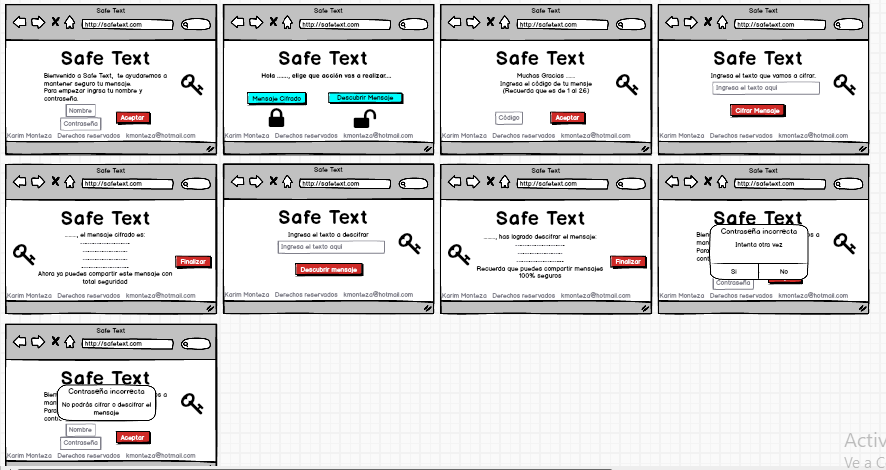
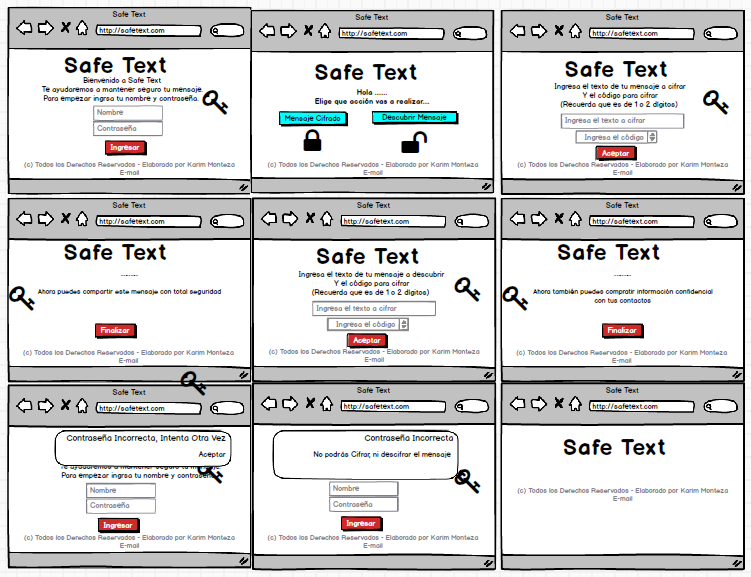
cifrado-y-descifrado

diff --git a/src/index.html b/src/index.html
@@ -1,10 +1,10 @@
 <!DOCTYPE html>
 <html>
   <head>
-    <meta charset="utf-8">
+    <meta charset='utf-8'>
     <title>Safe Text</title>
-    <meta name="viewport" content="width=device-width,user-scalable=no,initial-scale=1.0, maximum-scale=1.0">
-    <link rel="stylesheet" href="style.css" />
+    <meta name='viewport' content='width=device-width,user-scalable=no,initial-scale=1.0, maximum-scale=1.0'>
+    <link rel='stylesheet' href='style.css'/>
   </head>
   <body>
     <center>
@@ -14,61 +14,80 @@
     </header>
     <main>
       <!-- Párrafo, nombre y constraseña-->
-
-      <section class="nombre-contraseña" id="nombre-Contraseña"><center>
-        <p><strong>Bienvenido a Safe Text<strong>
-        <br>Te ayudaremos a mantener seguro tu mensaje <br>
-        <br>Para empezar ingresa tu nombre y contraseña.</strong> </p>
+      <section class='nombre-contraseña' id='nombre-contraseña'>
+        <p><strong>Bienvenido a Safe Text
+        <br>
+        Te ayudaremos a mantener seguro tu mensaje
+        <br>
+        <br>
+        Para empezar ingresa tu nombre y contraseña.</strong> </p>
         <!-- Ingresar nombre y contraseña -->
-        <input type="text" id="nombre" placeholder="Nombre" required> <br> <br>
-        <input type="password" id="contraseña" placeholder="Contraseña"> <br><br>
-        <button type="button" id="ingresar">Ingresar</button>
+        <input type='text' id='nombre' placeholder='Nombre' required> <br> <br>
+        <input type='password' id='contraseña' placeholder='Contraseña'required> <br><br>
+        <button type='button' id='ingresar'>Ingresar</button>
       </section>
       <!-- si es correcto cifrar o descifrar mensaje -->
-      <section class="cifrar-descifrar" id="cifrar-descifrar" style="display: none;">
-        <center>
-        <h2 id="usuario">Hola</h2> <br>
+      <section class='cifrar-descifrar' id='cifrar-descifrar' >
+        <h2 id='usuario'>Hola</h2>
         <p>Elije que acción vas a realizar</p>
-        <button type="button" id="cifrar">Cifrar Mensaje</button>
-        <button type="button" id="descifrar">Descubrir Mensaje</button>
+        <button type='button' id='cifrar'>Cifrar Mensaje</button>
+        <button type='button' id='descifrar'>Descubrir Mensaje</button>
       </section>
-      <!-- Si eleige cifrar -->
-      <section class="offsetcifrar" id="offsetcifrar" style="display: none;">
-        <center>
-        <p>Ingresa el texto de tu mensaje a cifrar <br><br> Y el código para cifrar <br>(Recuerda que es de 1 o 2 dígitos) <br>  </p>
-        <input type="text" id="textcif" placeholder="Ingresa el texto a cifrar">
-        <br><br><br>
-        <input type="number" id="offsetci" requerid>
-        <button type="button" id="aceptarcifrar">Aceptar</button>
-      </section>
-      <!-- Si eleige descifrar -->
-      <section class="offsetdescifrar" id="offsetdescifrar" style="display: none;">
-        <center>
-        <p>Ingresa el texto del mensaje a descubrir <br><br>Y el código  para descifrar <br>(Recuerda que es de 1 o 2 dígitos) </p>
-        <input type="text" id="textdescif" placeholder="Ingresa el texto que vas a descifrar">
-        <br><br><br>
-        <input type="number" id="offsetde" requerid>
-        <button type="button" id="aceptardescifrar">Aceptar</button>
-      </section>
-            <!-- mensaje cifrado y finalizar -->
-      <section class="mensajecifrado" id="mensajecifrado" style="display: none;">
-        <p id="encriptado">
+      <!-- Si elige cifrar, ingresa texto y offset -->
+      <section class='cifrado' id='cifrado'>
+        <p>Ingresa el texto de tu mensaje a cifrar
+        <br>
+        Y el código para cifrar
+        <br>
+        (Recuerda que es de 1 o 2 dígitos)
+        <br>
         </p>
-        <br><br>
-        <p1>Ahora puedes compartir este mensaje con total seguridad</p1>
-        <button type="button" id="fin">Finalizar</button>
+        <input type='text' id='text1' placeholder='Ingresa el texto a cifrar' >
+        <br>
+        <br>
+        <br>
+        <input type='number' id='offset1' placeholder="Ingresa el código" >
+        <br>
+        <br>
+        <button type='button' id='aceptarcifrar'>Aceptar</button>
       </section>
-      <!-- mensaje descifrar y finalizar -->
-      <section class="mensajedescifrado" id="mensajedescifrado" style="display: none;">
-        <h2 id="descifrado"></h2>
-        <br><br>
-        <p>Recuerda que con Safe Text puedes enviar y recibir mensajes 100% seguro</p>
-        <button type="button" id="fin1">Finalizar</button>
+        <!--  si acepta muestra resultado y boton finalizar-->
+      <section class='mensajecifrado' id='mensajecifrado'>
+        <h2 id='encriptado'>Aquí se muestra el mensaje cifrado </h2>
+        <br>
+        <p>Ahora puedes compartir este mensaje con total seguridad</p>
+        <br>
+        <button type='button' id='fin'>Finalizar</button>
       </section>
+      <!-- Si eleige descifrar, ingresa texto y offset-->
+      <section class='descifrado' id='descifrado'>
+        <center>
+        <p>Ingresa el texto del mensaje a descubrir
+        <br>
+        Y el código  para descifrar
+        <br>
+        (Recuerda que es de 1 o 2 dígitos)
+        </p>
+        <input type='text' id='text2' placeholder='Ingresa el texto que vas a descifrar' >
+        <br><br><br>
+        <input type='number' id='offset2' placeholder='Ingresa el código'>
+        <br>
+        <button type='button' id='aceptardescifrar'>Aceptar</button>
+        <br>
+      </section>
+      <!-- Si acepta muestra mensaje descifrado y boton finalizar  -->
+      <section class='Mensajedescifrado' id='Mensajedescifrado'>
+        <h2 id='mjdescifrado'>Aquí se muestra el mensaje descifrado</h2>
+        <br>
+        <p>Ahora también puedes compratir información confidenciale con tus contactos</p>
+        <br>
+        <button type='button' id='fin1'>Finalizar</button>
+      </section>
+
   </main>
     <!-- Pie de página -->
     <footer><br>
-       (c) Todos los Derechos Reservados - Elaborado por Karim Monteza<br> <a href="mailto:kmonteza@hootmail.co"></a> </p>
+       (c) Todos los Derechos Reservados - Elaborado por Karim Monteza<br> <a href="mailto:kmonteza@hootmail.co"> E-mail</a>
   </footer>
     <script src="cipher.js"></script>
     <script src="index.js"></script>

diff --git a/src/index.js b/src/index.js
@@ -1,11 +1,14 @@
-
+/*nombre de usuario*/
 /* Validando Contraseña */
 const btningresar=document.getElementById('ingresar');
 const contraseña= document.getElementById('contraseña');
 let contador=0;
 btningresar.addEventListener('click', () => {
   if (contraseña.value==="LABORATORIA") {
-  document.getElementById('nombre-Contraseña').style.display='none';
+  const nombreusuario=document.getElementById('nombre').value;
+  console.log(nombreusuario);
+  document.getElementById('usuario').innerHTML='Hola '+ nombreusuario;
+  document.getElementById('nombre-contraseña').style.display='none';
   document.getElementById ('cifrar-descifrar').style.display='block';
   }
   if (contraseña.value!=="LABORATORIA") {
@@ -15,7 +18,7 @@ btningresar.addEventListener('click', () => {
       }
       else {
      alert("Contraseña incorrecta, no podrás cifrar ni descifrar el mensaje");
-     document.getElementById('nombre-Contraseña').style.display='none';
+     document.getElementById('nombre-contraseña').style.display='none';
     }
   }
 });
@@ -23,44 +26,47 @@ btningresar.addEventListener('click', () => {
 const btncifrar=document.getElementById('cifrar');
 btncifrar.addEventListener('click', () => {
   document.getElementById ('cifrar-descifrar').style.display='none';
-  document.getElementById('offsetdescifrar').style.display='none';
-  document.getElementById('offsetcifrar').style.display='block';
+  document.getElementById('descifrado').style.display='none';
+  document.getElementById('cifrado').style.display='block';
 });
 /* acción descifrar */
 const btndescifrar=document.getElementById('descifrar');
 btndescifrar.addEventListener('click', () => {
   document.getElementById ('cifrar-descifrar').style.display='none';
-  document.getElementById('offsetcifrar').style.display='none';
-  document.getElementById('offsetdescifrar').style.display='block';
+  document.getElementById('cifrado').style.display='none';
+  document.getElementById('descifrado').style.display='block';
 });
 /* Ingresar offset para cifrar */
 const btnoffsetcifrar=document.getElementById('aceptarcifrar');
 btnoffsetcifrar.addEventListener('click', () => {
-  const string1=document.getElementById('textcif');
-  const offset1=document.getElementById('offsetci');
-  document.getElementById('encriptado').innerHTML=cipher.encode(offset1, string1)
-  document.getElementById('offsetcifrar').style.display='none';
-  document.getElementById('mensajedescifrado').style.display='none';
-  document.getElementById('mensajecifrado').style.display='block';
+  const string1=document.getElementById('text1');
+  const offset1=document.getElementById('offset1');
+  const encriptado=document.getElementById('encriptado');
+  let mensaje1=cipher.encode(offset1.value, string1.value);
+  encriptado.innerHTML=(mensaje1);
+  document.getElementById('cifrado').style.display='none';
+  document.getElementById ('mensajecifrado').style.display='block';
 });
 /* Ingresar offset para descifrar*/
-const btnoffsetdescifrar=document.getElementById('aceptardescifrar');
-btnoffsetdescifrar.addEventListener('click', () => {
-  document.getElementById('offsetdescifrar').style.display='none';
-  document.getElementById('mensajecifrado').style.display='none';
-  document.getElementById('mensajedescifrado').style.display='block';
+const btnoffsetdescifrar=document.getElementById('aceptardescifrar')
+btnoffsetdescifrar.addEventListener('click',()=>{
+  const string2=document.getElementById('text2');
+  const offset2=document.getElementById('offset2');
+  const mjdescifrado=document.getElementById('mjdescifrado');
+  let mensaje2=cipher.decode(offset2.value, string2.value);
+  mjdescifrado.innerHTML=(mensaje2)
+  document.getElementById('descifrado').style.display='none';
+  document.getElementById ('Mensajedescifrado').style.display='block';
 });
 /*finalizar y regresar al inicio*/
 const finalizar=document.getElementById('fin');
 finalizar.addEventListener('click', () => {
   document.getElementById('mensajecifrado').style.display='none';
-  document.getElementById('mensajedescifrado').style.display='none';
-  document.getElementById('nombre-Contraseña').style.display='block';
+  document.getElementById('nombre-contraseña').style.display='block';
 });
 /*finalizar y regresar al inicio*/
 const finalizar1=document.getElementById('fin1');
 finalizar1.addEventListener('click', () => {
-  document.getElementById('mensajecifrado').style.display='none';
-  document.getElementById('mensajedescifrado').style.display='none';
-  document.getElementById('nombre-Contraseña').style.display='block';
+  document.getElementById('Mensajedescifrado').style.display='none';
+  document.getElementById('nombre-contraseña').style.display='block';
 });

diff --git a/src/style.css b/src/style.css
@@ -7,6 +7,7 @@ header{
   width: 430px;
   height: 100px;
   border:2px;
+  align-content: center;
 }
 
 body{
@@ -15,6 +16,8 @@ body{
   background-image: url('../img/seguro.jpg');
   background-repeat: no-repeat;
   background-size: cover;
+  align-content: center;
+
 }
 
 footer{
@@ -25,6 +28,7 @@ footer{
   width:430px;
   height:50px;
   border:2px;
+  text-align: center;
 }
 
 .nombre-contraseña{
@@ -42,24 +46,28 @@ footer{
   border:2px;
   border-color: #C0C0C0;
   border-style:solid;
+  display: none;
 }
-.offsetcifrar{
-  background:#D4E6F1;
-  width:430px;
-  height:310px;
-  border:2px;
-  border-color: #C0C0C0;
-  border-style:solid;
-}
-.offsetdescifrar{
+.cifrado{
   background: #D4E6F1;
   width:430px;
   height:310px;
   border:2px;
   border-color: #C0C0C0;
   border-style:solid;
+  display: none;
+}
+.descifrado{
+  background: #D4E6F1;
+  width:430px;
+  height:310px;
+  border:2px;
+  border-color: #C0C0C0;
+  border-style:solid;
+  display: none;
 }
 .mensajecifrado{
+  display:none;
   background: #D4E6F1;
   width:430px;
   height:310px;
@@ -67,7 +75,8 @@ footer{
   border-color: #C0C0C0;
   border-style:solid;
 }
-.mensajedescifrado{
+.Mensajedescifrado{
+  display:none;
   background: #D4E6F1;
   width:430px;
   height:310px;
@@ -76,8 +85,8 @@ footer{
   border-style:solid;
 }
 button {
-    background: #eb94d0;
-    background-image: -webkit-linear-gradient(top, #eb94d0, #2079b0);
+  background: #eb94d0;
+  background-image: -webkit-linear-gradient(top, #eb94d0, #2079b0);
   background-image: -moz-linear-gradient(top, #eb94d0, #2079b0);
   background-image: -ms-linear-gradient(top, #eb94d0, #2079b0);
   background-image: -o-linear-gradient(top, #eb94d0, #2079b0);

diff --git a/src/cipher.js b/src/cipher.js
@@ -1,17 +1,34 @@
 window.cipher = {
-  encode: (offset1, string1) => {
+  encode: (offset, string) => {
     /* Acá va tu código que cifra*/
 let MensajeCifrado='';
-for (lef i = 0; i < string1.length; i++) {
-  let position= (string1.toUpperCase().charCodeAt(1)-65+ parseInt(offset1))%26+65;
+let position=0;
+for (let i = 0; i < string.length; i++) {
+  if (string.charCodeAt(i)===32) {
+    position=string.charCodeAt(i);
+  }
+  else {
+    position= (string.toUpperCase().charCodeAt(i)-65+ parseInt(offset))%26+65;
+  }
   let mensaje=String.fromCharCode(position);
   MensajeCifrado+=mensaje;
- }
-return MensajeCifrado
- }
-
-
+}
+return MensajeCifrado;
+},
   decode: (offset, string) => {
     /* Acá va tu código que descifra*/
+    let Mensajedescifrado='';
+    let position1=0;
+    for (let i = 0; i < string.length; i++) {
+      if (string.charCodeAt(i)===32) {
+        position1=string.charCodeAt(i);
+      }
+      else {
+        position1= 90-((90-string.toUpperCase().charCodeAt(i)+ parseInt(offset))%26);
+      }
+      let mensaje1=String.fromCharCode(position1);
+      Mensajedescifrado+=mensaje1;
+    }
+    return Mensajedescifrado;
   }
 };

diff --git a/README.md b/README.md
@@ -11,20 +11,20 @@
 
 ## Introducción
 
-Para nuestros clientes lo más importante es la seguridad de sus datos personales y confidenciales, por ello no debe caer en manos de personas equivocadas y **Safe Text** busca proteger esos datos sensibles con un mensaje encriptado siendo descifrado por la persona correcta o viceversa
+Para nuestros clientes lo más importante es la seguridad de sus datos personales y mensajes confidenciales, por ello no debe caer en manos de personas equivocadas y **Safe Text** busca proteger esos datos sensibles con un mensaje encriptado siendo descifrado por la persona correcta o viceversa.
 
 ## Investigación UX
 
 Para este proyecto se entrevistó a 5 usuarios  a quienes se les hizo la pregunta: ¿Por qué ellos usarían un mensaje encriptado?  La conclusión:
-Los Usuarios de Safe Text son personas entre 25 a 65 años de edad, quienes buscan proteger sus datos personales( usuarios y claves, datos de clientes, mensajes secretos,  números de tarjetas, etc), ellos envían muchas veces mensajes totalmente confidenciales a través del internet: correo y aplicativos como whatsapp, messenger, entre otros. Este mensaje una vez enviado y leído por la otra parte, deben eliminar el mensaje y pedir que el receptor haga lo mismo. El principal temor de nuestros clientes es que el mensaje por error caiga en la persona equivocada, hackeos de cuentas, robo o pérdida de celulares, laptop o ipad-tablet. 
-Por esta razón Safe Text es el mejor aliado para **resguardar la seguridad y confidencialidad** de nuestros clientes, ellos ya no tendrían que eliminar sus mensajes, no estar solicitando que se les  vuelva a enviar los datos si hay que hacer uso de estos nuevamente, sino que por el contrario lo pueden tener guardado y hacer uso de estos cuando requieran, simplemente copian el texto y descifran para conocer el contenido o escriben el mensaje lo cifran y  lo envían al receptor, lo mejor es que esta aplicación la usaran de manera de privada y con una contraseña única para mayor seguridad y tener fiabilidad en que el mensaje será interpretado por persona correcta. 
+Los Usuarios de Safe Text son personas entre 25 a 65 años de edad, quienes buscan proteger sus datos personales( usuarios y claves, datos de clientes, mensajes secretos,  números de tarjetas, etc), ellos envían muchas veces mensajes totalmente confidenciales a través del correo y aplicativos como whatsapp, messenger, entre otros. Este mensaje una vez enviado y leído por la otra parte, deben eliminar el mensaje y pedir que el receptor haga lo mismo. El principal temor de nuestros clientes es que el mensaje por error caiga en la persona equivocada, hackeos de cuentas, robo o pérdida de celulares, laptop o ipad-tablet.
+Por esta razón Safe Text es el mejor aliado para **resguardar la seguridad y confidencialidad los mensajes** de nuestros clientes, ellos ya no tendrían que eliminar sus mensajes, no estar solicitando que se les  vuelva a enviar los datos si hay que hacer uso de estos nuevamente, sino que por el contrario lo pueden tener guardado y hacer uso de estos cuando requieran, simplemente copian el texto y descifran para conocer el contenido o escriben el mensaje lo cifran y  lo envían al receptor, lo mejor es que esta aplicación la usaran de manera de privada y con una contraseña única para mayor seguridad y tener fiabilidad en que el mensaje será interpretado por persona correcta.
 
 ## Prototipo de papel
-!['Hola'](img/prototipo-papel.PNG)
+!['Prototipo-Papel'](img/prototipo-papel.PNG)
 
 ## Feedback
 
-Un poco más de explicación la página, para que el cliente sepa qué debe hacer sin tener que decirle, el desplazamiento de preferencia después de haber ingresado la contraseña en una nueva ventana, revisar estilos y agregar imágenes.
+Un poco más de explicación la página, para que el cliente sepa qué debe hacer sin tener que decirle, el desplazamiento de preferencia después de haber ingresado la contraseña en una nueva ventana, revisar estilos y agregar imágenes. Reducir vistas: en la vista para ingresar el texto, ingresar tambien el código offset.  
 
 ## Prototipo Balsamiq
-!['balsamiq'](img/balsamiq.PNG)
+!['Prototipo-Balsamiq'](img/balsamiq.PNG)
